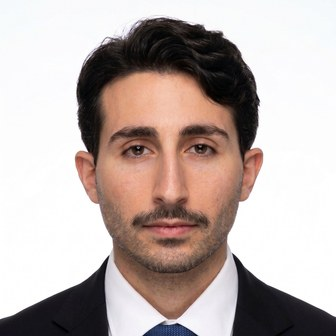
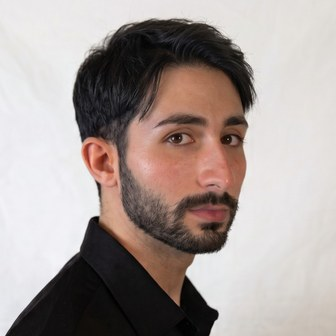
Add Hacklanta II and HackATL 2026, Cyber Sail club, new headshot

diff --git a/index.html b/index.html
@@ -161,7 +161,7 @@ kbd span{font-size:12px}
             <li><a class="icon" href="https://www.linkedin.com/in/james-rivera-607872212/" target="_blank" rel="noopener noreferrer" aria-label="LinkedIn"><svg viewBox="0 0 24 24" fill="currentColor"><path d="M20.45 20.45h-3.56v-5.57c0-1.33-.02-3.04-1.85-3.04-1.85 0-2.14 1.45-2.14 2.94v5.67H9.35V9h3.42v1.56h.05c.48-.9 1.64-1.85 3.37-1.85 3.6 0 4.27 2.37 4.27 5.46v6.28ZM5.34 7.43a2.07 2.07 0 1 1 0-4.14 2.07 2.07 0 0 1 0 4.14ZM7.12 20.45H3.56V9h3.56v11.45ZM22.22 0H1.77C.8 0 0 .78 0 1.75v20.5C0 23.22.8 24 1.77 24h20.45c.98 0 1.78-.78 1.78-1.75V1.75C24 .78 23.2 0 22.22 0Z"/></svg></a></li>
           </ul>
         </div>
-        <div class="avatar"><img src="images/headshot.jpg?v=2" alt="James Rivera" width="112" height="112"></div>
+        <div class="avatar"><img src="images/headshot.jpg?v=3" alt="James Rivera" width="112" height="112"></div>
       </header>
     </div>
 
@@ -290,6 +290,10 @@ kbd span{font-size:12px}
         <h2>Organizations</h2>
         <div class="list">
           <article class="item">
+            <h3>Cyber Sail</h3>
+            <div class="item-body">College of Coastal Georgia's applied cybersecurity club</div>
+          </article>
+          <article class="item">
             <h3><a class="u" href="https://thehackpack.org" target="_blank" rel="noopener noreferrer">University of Georgia Competitive Hacking Team</a></h3>
           </article>
         </div>
@@ -303,6 +307,8 @@ kbd span{font-size:12px}
           <article class="item">
             <h3>Competitions</h3>
             <div class="item-body"><ul>
+              <li><b>Hacklanta II</b>, 1st place</li>
+              <li><b>HackATL 2026</b>, Finalist</li>
               <li><b>National Cyber League Spring 2026 Individual Game</b>, 79th in nation</li>
               <li><b>Georgia Tech TkCTF 2024</b>, 6th — UGA's A Team</li>
               <li><b>NSA Codebreaker Challenge 2024–2025</b>, UGA 16th in nation</li>
